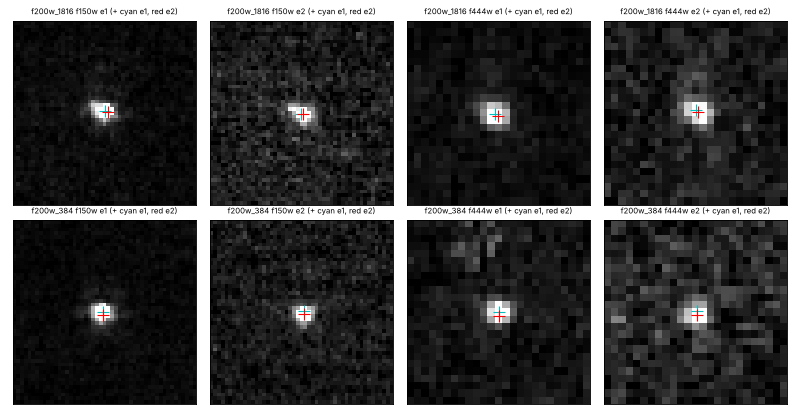
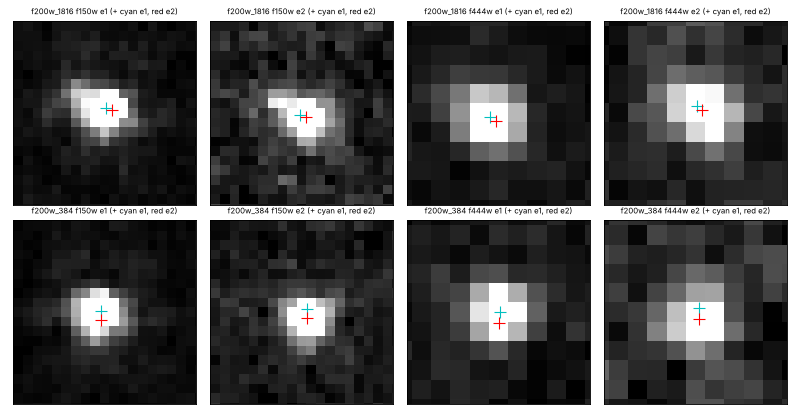
Code-review fixes: target row separation check, stored assumptions, zoomed sheet, parallel S3 reads
Results unchanged.

Claude-Session: https://claude.ai/code/session_01UxkcWENBCL39p9C6wZPvnt

diff --git a/scripts/smacs_epochs_img.py b/scripts/smacs_epochs_img.py
@@ -14,6 +14,7 @@ from __future__ import annotations
 import argparse
 import json
 import sys
+from concurrent.futures import ThreadPoolExecutor
 from pathlib import Path
 from typing import Any
 
@@ -31,7 +32,8 @@ from jwst_anomaly import catalog, cutouts
 
 sys.path.insert(0, str(Path(__file__).resolve().parent))
 from epoch_compare import mutual_matches, offsets_mas  # noqa: E402
-from smacs_epochs_1816_384 import E1, E2, TARGETS  # noqa: E402
+from smacs_epochs_1816_384 import BASELINE_YR, E1, E2, TARGETS  # noqa: E402
+from smacs_epochs_1816_384 import _angle_deg as angle_deg  # noqa: E402
 
 BANDS = ("f150w", "f444w")
 S3 = {"e1": "jw02736/L3/t/o001/", "e2": "jw06882/L3/t/o057/"}
@@ -50,7 +52,7 @@ PCTL = 95.0
 ANGLE_DEG = 45.0
 INJECT_MAS = 20.0
 INJECT_TOL_MAS = 5.0
-BASELINE_YR = 4.0
+ZOOM_ARCSEC = 0.6  # contact-sheet panel width (display only)
 
 
 def centroid_sky(data: np.ndarray, wcs: WCS) -> SkyCoord | None:
@@ -91,11 +93,6 @@ def shifted(data: np.ndarray, wcs: WCS, sky: SkyCoord, dmas: tuple[float, float]
     filled = np.where(np.isfinite(data), data, 0.0)
     out = fourier_shift(np.fft.fft2(filled), (float(y1 - y0), float(x1 - x0)))
     return np.real(np.fft.ifft2(out))
-
-
-def angle_deg(a: np.ndarray, b: np.ndarray) -> float:
-    cos = np.dot(a, b) / (np.hypot(*a) * np.hypot(*b))
-    return float(np.degrees(np.arccos(np.clip(cos, -1.0, 1.0))))
 
 
 def band_stats(target_off: np.ndarray | None, peer_off: np.ndarray) -> dict[str, Any] | None:
@@ -152,7 +149,8 @@ def select_peers(cat1: Table, target: SkyCoord, k_target: int, cat2: Table) -> l
     ok &= d2.arcsec > PEER_ISOLATION_ARCSEC
     ok[k_target] = False
     i1, _ = mutual_matches(c1, c2, MATCH_ARCSEC)
-    return [int(i) for i in np.flatnonzero(ok) if i in set(i1.tolist())]
+    cand = np.flatnonzero(ok)
+    return [int(i) for i in cand[np.isin(cand, i1)]]
 
 
 def _read(path: str) -> tuple[np.ndarray, WCS]:
@@ -161,7 +159,7 @@ def _read(path: str) -> tuple[np.ndarray, WCS]:
 
 
 def sheet(path: Path, files: dict, cents: dict, names: list[str]) -> None:
-    """Target cutouts per band and epoch, both epochs' centroids marked (zoomed 0.6 arcsec)."""
+    """Target cutouts per band and epoch, both epochs' centroids marked (ZOOM_ARCSEC wide)."""
     import matplotlib
 
     matplotlib.use("Agg")
@@ -179,6 +177,11 @@ def sheet(path: Path, files: dict, cents: dict, names: list[str]) -> None:
                 if sky is not None:
                     x, y = wcs.world_to_pixel(sky)
                     ax.plot(x, y, "+", color=mk, ms=10)
+            scale = np.mean([q.to_value(u.arcsec) for q in wcs.proj_plane_pixel_scales()])
+            half = ZOOM_ARCSEC / 2 / scale
+            cy, cx = (np.array(data.shape) - 1) / 2
+            ax.set_xlim(cx - half, cx + half)
+            ax.set_ylim(cy - half, cy + half)
             ax.set_title(f"{name} {b} {ep} (+ cyan e1, red e2)", fontsize=7)
             ax.set_xticks([])
             ax.set_yticks([])
@@ -198,10 +201,14 @@ def main(argv: list[str] | None = None) -> int:
     cat2 = catalog.load_pipeline_catalog(args.cat_dir / E2.format(b="f150w"))
     c1 = SkyCoord(cat1["ra"], cat1["dec"], unit="deg")
     # Positions to cut: each target (nearest epoch-1 F150W row) and its peers.
-    uids, ras, decs, groups = [], [], [], {}
+    uids, ras, decs, groups, target_sep = [], [], [], {}, {}
     for name in TARGETS:
         t = SkyCoord(prev[name]["ra"], prev[name]["dec"], unit="deg")
-        k = int(np.argmin(t.separation(c1).arcsec))
+        sep = t.separation(c1).arcsec
+        k = int(np.argmin(sep))
+        if sep[k] > MATCH_ARCSEC:
+            raise SystemExit(f"{name}: no epoch-1 F150W row within {MATCH_ARCSEC} arcsec")
+        target_sep[name] = float(sep[k])
         peers = select_peers(cat1, c1[k], k, cat2)
         groups[name] = [f"{name}"] + [f"{name}_p{i}" for i in peers]
         for uid, i in zip(groups[name], [k, *peers], strict=True):
@@ -212,26 +219,29 @@ def main(argv: list[str] | None = None) -> int:
     pos = dict(zip(uids, SkyCoord(ras, decs, unit="deg"), strict=True))
     cents: dict[tuple[str, str], dict[str, SkyCoord | None]] = {}
     inject: dict[str, list[list[float]]] = {b: [] for b in BANDS}
-    allfiles: dict[tuple[str, str], dict[str, str]] = {}
+    peer_uids = {m for members in groups.values() for m in members[1:]}
+
+    def fetch(key: tuple[str, str]) -> dict[str, str]:
+        b, ep = key
+        i2d = NAMES[ep].format(b=b).replace("_cat.ecsv", "_i2d.fits")
+        tab = cutouts.make_cutouts(
+            f"s3://stpubdata/jwst/public/{S3[ep]}{i2d}",
+            targets,
+            size_arcsec=SIZE_ARCSEC,
+            out_dir=args.work,
+            storage_options={"anon": True},
+        )
+        return dict(zip(tab["source_uid"], tab["path"], strict=True))
+
+    keys = [(b, ep) for b in BANDS for ep in ("e1", "e2")]
+    with ThreadPoolExecutor(max_workers=len(keys)) as pool:  # four independent S3 reads
+        allfiles = dict(zip(keys, pool.map(fetch, keys), strict=True))
+    for key, fl in allfiles.items():
+        cents[key] = {uid: (centroid_sky(*_read(p)) if p else None) for uid, p in fl.items()}
     for b in BANDS:
-        files = {}
-        for ep in ("e1", "e2"):
-            i2d = NAMES[ep].format(b=b).replace("_cat.ecsv", "_i2d.fits")
-            tab = cutouts.make_cutouts(
-                f"s3://stpubdata/jwst/public/{S3[ep]}{i2d}",
-                targets,
-                size_arcsec=SIZE_ARCSEC,
-                out_dir=args.work,
-                storage_options={"anon": True},
-            )
-            files[ep] = dict(zip(tab["source_uid"], tab["path"], strict=True))
-            allfiles[(b, ep)] = files[ep]
-            cents[(b, ep)] = {
-                uid: (centroid_sky(*_read(p)) if p else None) for uid, p in files[ep].items()
-            }
         # Synthetic validation on peers: shift the epoch-2 cutout, re-measure.
-        for uid, p in files["e2"].items():
-            if "_p" not in uid or not p or cents[(b, "e2")][uid] is None:
+        for uid, p in allfiles[(b, "e2")].items():
+            if uid not in peer_uids or not p or cents[(b, "e2")][uid] is None:
                 continue
             data, wcs = _read(p)
             base = cents[(b, "e2")][uid]
@@ -254,6 +264,9 @@ def main(argv: list[str] | None = None) -> int:
             "angle_deg": ANGLE_DEG,
             "inject_mas": INJECT_MAS,
             "inject_tol_mas": INJECT_TOL_MAS,
+            "peak_radius_arcsec": PEAK_RADIUS_ARCSEC,
+            "match_arcsec": MATCH_ARCSEC,
+            "baseline_yr": BASELINE_YR,
         },
         "validation": {},
         "targets": {},
@@ -288,8 +301,9 @@ def main(argv: list[str] | None = None) -> int:
             st = band_stats(t_off, np.array(peers).reshape(-1, 2))
             per_band[b] = st
             rec["bands"][b] = st or {
-                "not_measured": f"target centroid {'ok' if t_off is not None else 'failed'}, "
-                f"{len(peers)} peers (< {MIN_PEERS} needed or target failed)"
+                "not_measured": f"target centroid {'ok' if t_off is not None else 'failed'}; "
+                f"{len(peers)} peers with centroids ({MIN_PEERS} needed)",
+                "label": "derived",
             }
             if st is not None:
                 st["peer_p95_motion_mas_per_yr"] = st["peer_residual_p95_mas"] / BASELINE_YR
@@ -301,6 +315,7 @@ def main(argv: list[str] | None = None) -> int:
             }
         rec["n_peers_selected"] = len(members) - 1
         rec["epoch1_f150w_position"] = [pos[members[0]].ra.deg, pos[members[0]].dec.deg]
+        rec["epoch1_f150w_row_sep_arcsec"] = target_sep[name]
         rec["decision"] = decide(per_band) if valid else "not evaluated: validation failed"
         out["targets"][name] = rec
     args.out.mkdir(parents=True, exist_ok=True)

diff --git a/results/smacs_jwst3/epochs_1816_384_img/RESULT.md b/results/smacs_jwst3/epochs_1816_384_img/RESULT.md
@@ -7,8 +7,9 @@ Output: `summary.json`. Contact sheet: `contact_sheet.png` (both epochs' centroi
 ## Data (observed)
 - Level-3 `_i2d.fits` of 2736 o001 (2022) and VENUS 6882 o057 (2026), F150W and F444W, read by S3 byte range
   (1.5″ cutouts); CATs from `s3://stpubdata` (same products as `../epochs_1816_384/`).
-- Contact sheet: one compact, isolated source at each target position in all 8 cutouts; the two epochs'
-  centroid markers overlap at this zoom.
+- Contact sheet (0.6″ panels): one compact, isolated source at each target position in all 8 cutouts; the
+  centroids sit on the source peak. The markers are raw positions before the frame tie (tie 14.5–25.5 mas, mostly
+  in Dec, `tie_mas`), so their visible separation is not the residual.
 
 ## Validation (simulation)
 - Shifting each peer's epoch-2 cutout by +20 mas in RA or Dec (Fourier shift) is recovered with a median error
